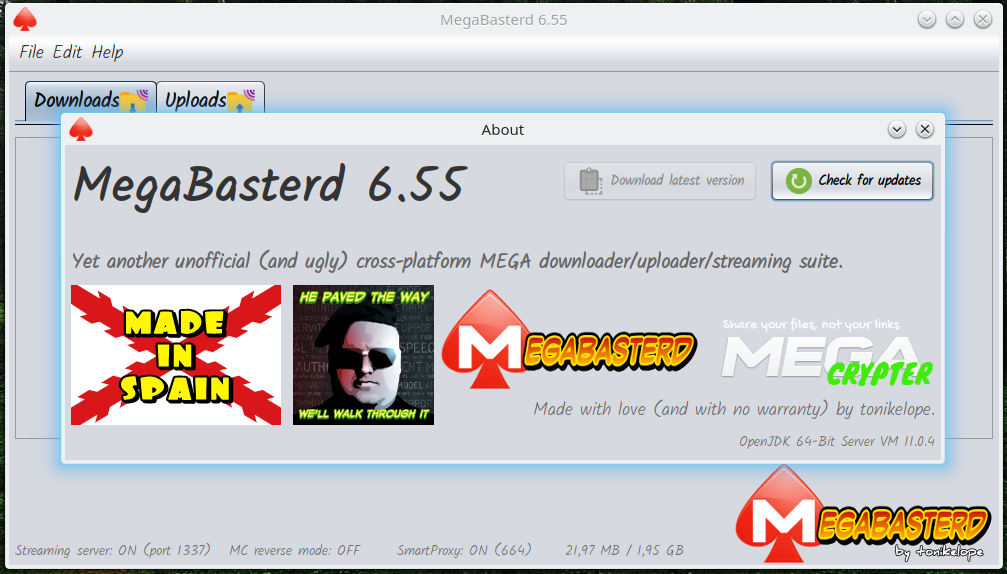
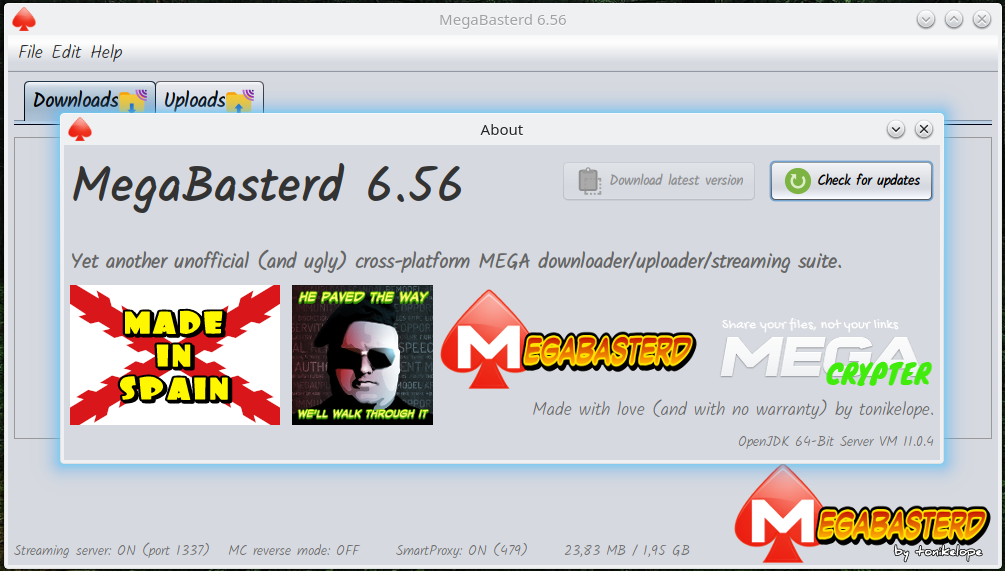
6.56
-BufferedInputStream ChunkWriterManager

(cherry picked from commit 5fd982bc6c3c894a3b6ebbdc4de14d164e9cb49b)

diff --git a/src/main/java/com/tonikelope/megabasterd/ChunkWriterManager.java b/src/main/java/com/tonikelope/megabasterd/ChunkWriterManager.java
@@ -1,6 +1,7 @@
 package com.tonikelope.megabasterd;
 
 import static com.tonikelope.megabasterd.CryptTools.*;
+import java.io.BufferedInputStream;
 import java.io.File;
 import java.io.FileInputStream;
 import java.io.IOException;
@@ -18,9 +19,42 @@ import javax.crypto.NoSuchPaddingException;
  *
  * @author tonikelope
  */
-public class ChunkWriteManager implements Runnable, SecureSingleThreadNotifiable {
+public class ChunkWriterManager implements Runnable, SecureSingleThreadNotifiable {
 
-    private static final Logger LOG = Logger.getLogger(ChunkWriteManager.class.getName());
+    private static final Logger LOG = Logger.getLogger(ChunkWriterManager.class.getName());
+    private volatile long _last_chunk_id_written;
+    private volatile long _bytes_written;
+    private final long _file_size;
+    private final Download _download;
+    private final byte[] _byte_file_key;
+    private final byte[] _byte_iv;
+    private volatile boolean _exit;
+    private final Object _secure_notify_lock;
+    private boolean _notified;
+    private final String _chunks_dir;
+
+    public ChunkWriterManager(Download downloader) throws Exception {
+        _notified = false;
+        _exit = false;
+        _download = downloader;
+        _chunks_dir = _create_chunks_temp_dir();
+        _secure_notify_lock = new Object();
+        _file_size = _download.getFile_size();
+        _byte_file_key = initMEGALinkKey(_download.getFile_key());
+        _byte_iv = initMEGALinkKeyIV(_download.getFile_key());
+
+        if (_download.getProgress() == 0) {
+
+            _last_chunk_id_written = 0;
+
+            _bytes_written = 0;
+
+        } else {
+            _last_chunk_id_written = _download.getLast_chunk_id_dispatched();
+
+            _bytes_written = _download.getProgress();
+        }
+    }
 
     public static long calculateChunkOffset(long chunk_id, int size_multi) {
         long[] offs = {0, 128, 384, 768, 1280, 1920, 2688};
@@ -56,43 +90,6 @@ public class ChunkWriteManager implements Runnable, SecureSingleThreadNotifiable
         }
 
         return chunk_size;
-    }
-
-    private volatile long _last_chunk_id_written;
-    private volatile long _bytes_written;
-    private final long _file_size;
-    private final Download _download;
-    private final byte[] _byte_file_key;
-    private final byte[] _byte_iv;
-    private volatile boolean _exit;
-    private final Object _secure_notify_lock;
-    private boolean _notified;
-    private final String _chunks_dir;
-
-    public ChunkWriteManager(Download downloader) throws Exception {
-        _notified = false;
-        _exit = false;
-        _download = downloader;
-        _chunks_dir = _create_chunks_temp_dir();
-        _secure_notify_lock = new Object();
-        _file_size = _download.getFile_size();
-        _byte_file_key = initMEGALinkKey(_download.getFile_key());
-        _byte_iv = initMEGALinkKeyIV(_download.getFile_key());
-
-        if (_download.getProgress() == 0) {
-
-            _last_chunk_id_written = 0;
-
-            _bytes_written = 0;
-
-        } else {
-            _last_chunk_id_written = _download.getLast_chunk_id_dispatched();
-
-            _bytes_written = _download.getProgress();
-        }
-
-        LOG.log(Level.INFO, "{0} Chunkmanager hello LAST CHUNK WRITTEN -> [{1}] {2}...", new Object[]{Thread.currentThread().getName(), _last_chunk_id_written, _bytes_written});
-
     }
 
     public String getChunks_dir() {
@@ -149,7 +146,7 @@ public class ChunkWriteManager implements Runnable, SecureSingleThreadNotifiable
         try {
             MiscTools.deleteDirectoryRecursion(Paths.get(getChunks_dir()));
         } catch (IOException ex) {
-            Logger.getLogger(ChunkWriteManager.class.getName()).log(Level.SEVERE, ex.getMessage());
+            Logger.getLogger(ChunkWriterManager.class.getName()).log(Level.SEVERE, ex.getMessage());
         }
     }
 
@@ -158,7 +155,9 @@ public class ChunkWriteManager implements Runnable, SecureSingleThreadNotifiable
 
         try {
 
-            LOG.log(Level.INFO, "{0} Chunkmanager: let's do some work!", Thread.currentThread().getName());
+            LOG.log(Level.INFO, "{0} ChunkWriterManager: let's do some work! {1}", new Object[]{Thread.currentThread().getName(), _download.getFile_name()});
+
+            LOG.log(Level.INFO, "{0} ChunkWriterManager LAST CHUNK WRITTEN -> [{1}] {2} {3}...", new Object[]{Thread.currentThread().getName(), _last_chunk_id_written, _bytes_written, _download.getFile_name()});
 
             boolean download_finished = false;
 
@@ -184,7 +183,7 @@ public class ChunkWriteManager implements Runnable, SecureSingleThreadNotifiable
 
                         int reads;
 
-                        try (CipherInputStream cis = new CipherInputStream(new FileInputStream(chunk_file), genDecrypter("AES", "AES/CTR/NoPadding", _byte_file_key, forwardMEGALinkKeyIV(_byte_iv, _bytes_written)))) {
+                        try (CipherInputStream cis = new CipherInputStream(new BufferedInputStream(new FileInputStream(chunk_file)), genDecrypter("AES", "AES/CTR/NoPadding", _byte_file_key, forwardMEGALinkKeyIV(_byte_iv, _bytes_written)))) {
                             while ((reads = cis.read(buffer)) != -1) {
                                 _download.getOutput_stream().write(buffer, 0, reads);
                             }
@@ -194,7 +193,7 @@ public class ChunkWriteManager implements Runnable, SecureSingleThreadNotifiable
 
                         _bytes_written += chunk_file.length();
 
-                        LOG.log(Level.INFO, "{0} Chunkmanager has written to disk chunk [{1}] {2} {3}...", new Object[]{Thread.currentThread().getName(), _last_chunk_id_written + 1, _bytes_written, _download.calculateLastWrittenChunk(_bytes_written)});
+                        LOG.log(Level.INFO, "{0} ChunkWriterManager has written to disk chunk [{1}] {2} {3} {4}...", new Object[]{Thread.currentThread().getName(), _last_chunk_id_written + 1, _bytes_written, _download.calculateLastWrittenChunk(_bytes_written), _download.getFile_name()});
 
                         _last_chunk_id_written++;
 
@@ -205,7 +204,7 @@ public class ChunkWriteManager implements Runnable, SecureSingleThreadNotifiable
 
                     if (!_exit && (!_download.isStopped() || !_download.getChunkworkers().isEmpty()) && _bytes_written < _file_size) {
 
-                        LOG.log(Level.INFO, "{0} Chunkmanager waiting for chunk [{1}]...", new Object[]{Thread.currentThread().getName(), _last_chunk_id_written + 1});
+                        LOG.log(Level.INFO, "{0} ChunkWriterManager waiting for chunk [{1}] {2}...", new Object[]{Thread.currentThread().getName(), _last_chunk_id_written + 1, _download.getFile_name()});
 
                         secureWait();
 
@@ -227,7 +226,7 @@ public class ChunkWriteManager implements Runnable, SecureSingleThreadNotifiable
 
         _download.secureNotify();
 
-        LOG.log(Level.INFO, "{0} Chunkmanager: bye bye{1}", new Object[]{Thread.currentThread().getName(), _download.getFile_name()});
+        LOG.log(Level.INFO, "{0} ChunkWriterManager: bye bye {1}", new Object[]{Thread.currentThread().getName(), _download.getFile_name()});
     }
 
 }

diff --git a/src/main/java/com/tonikelope/megabasterd/ChunkDownloader.java b/src/main/java/com/tonikelope/megabasterd/ChunkDownloader.java
@@ -2,10 +2,12 @@ package com.tonikelope.megabasterd;
 
 import static com.tonikelope.megabasterd.MainPanel.*;
 import static com.tonikelope.megabasterd.MiscTools.*;
+import java.io.BufferedOutputStream;
 import java.io.File;
 import java.io.FileOutputStream;
 import java.io.IOException;
 import java.io.InputStream;
+import java.io.OutputStream;
 import java.net.HttpURLConnection;
 import java.net.InetSocketAddress;
 import java.net.Proxy;
@@ -146,13 +148,13 @@ public class ChunkDownloader implements Runnable, SecureSingleThreadNotifiable {
 
                 long chunk_id = _download.nextChunkId();
 
-                long chunk_offset = ChunkWriteManager.calculateChunkOffset(chunk_id, Download.CHUNK_SIZE_MULTI);
+                long chunk_offset = ChunkWriterManager.calculateChunkOffset(chunk_id, Download.CHUNK_SIZE_MULTI);
 
-                long chunk_size = ChunkWriteManager.calculateChunkSize(chunk_id, _download.getFile_size(), chunk_offset, Download.CHUNK_SIZE_MULTI);
+                long chunk_size = ChunkWriterManager.calculateChunkSize(chunk_id, _download.getFile_size(), chunk_offset, Download.CHUNK_SIZE_MULTI);
 
-                ChunkWriteManager.checkChunkID(chunk_id, _download.getFile_size(), chunk_offset);
+                ChunkWriterManager.checkChunkID(chunk_id, _download.getFile_size(), chunk_offset);
 
-                String chunk_url = ChunkWriteManager.genChunkUrl(worker_url, _download.getFile_size(), chunk_offset, chunk_size);
+                String chunk_url = ChunkWriterManager.genChunkUrl(worker_url, _download.getFile_size(), chunk_offset, chunk_size);
 
                 if ((_current_smart_proxy != null || http_error == 509) && MainPanel.isUse_smart_proxy() && !MainPanel.isUse_proxy()) {
 
@@ -260,7 +262,7 @@ public class ChunkDownloader implements Runnable, SecureSingleThreadNotifiable {
 
                                 tmp_chunk_file = new File(_download.getChunkmanager().getChunks_dir() + "/" + new File(_download.getFile_name()).getName() + ".chunk" + chunk_id + ".tmp");
 
-                                try (InputStream is = new ThrottledInputStream(con.getInputStream(), _download.getMain_panel().getStream_supervisor()); FileOutputStream tmp_chunk_file_os = new FileOutputStream(tmp_chunk_file)) {
+                                try (InputStream is = new ThrottledInputStream(con.getInputStream(), _download.getMain_panel().getStream_supervisor()); OutputStream tmp_chunk_file_os = new BufferedOutputStream(new FileOutputStream(tmp_chunk_file))) {
 
                                     init_chunk_time = System.currentTimeMillis();
 

diff --git a/src/main/java/com/tonikelope/megabasterd/Download.java b/src/main/java/com/tonikelope/megabasterd/Download.java
@@ -80,7 +80,7 @@ public class Download implements Transference, Runnable, SecureSingleThreadNotif
     private volatile boolean _pause;
     private final ConcurrentLinkedQueue<Long> _partialProgressQueue;
     private volatile long _progress;
-    private ChunkWriteManager _chunkmanager;
+    private ChunkWriterManager _chunkmanager;
     private String _last_download_url;
     private boolean _provision_ok;
     private boolean _finishing_download;
@@ -292,7 +292,7 @@ public class Download implements Transference, Runnable, SecureSingleThreadNotif
         _pause = pause;
     }
 
-    public ChunkWriteManager getChunkmanager() {
+    public ChunkWriterManager getChunkmanager() {
         return _chunkmanager;
     }
 
@@ -590,7 +590,7 @@ public class Download implements Transference, Runnable, SecureSingleThreadNotif
 
                             if (_use_slots) {
 
-                                _chunkmanager = new ChunkWriteManager(this);
+                                _chunkmanager = new ChunkWriterManager(this);
 
                                 _thread_pool.execute(_chunkmanager);
 
@@ -1322,11 +1322,11 @@ public class Download implements Transference, Runnable, SecureSingleThreadNotif
             try {
                 while (!_exit) {
 
-                    long chunk_offset = ChunkWriteManager.calculateChunkOffset(chunk_id, 1);
+                    long chunk_offset = ChunkWriterManager.calculateChunkOffset(chunk_id, 1);
 
-                    long chunk_size = ChunkWriteManager.calculateChunkSize(chunk_id, this.getFile_size(), chunk_offset, 1);
+                    long chunk_size = ChunkWriterManager.calculateChunkSize(chunk_id, this.getFile_size(), chunk_offset, 1);
 
-                    ChunkWriteManager.checkChunkID(chunk_id, this.getFile_size(), chunk_offset);
+                    ChunkWriterManager.checkChunkID(chunk_id, this.getFile_size(), chunk_offset);
 
                     tot += chunk_size;
 

diff --git a/src/main/java/com/tonikelope/megabasterd/SettingsDialog.java b/src/main/java/com/tonikelope/megabasterd/SettingsDialog.java
@@ -5,11 +5,14 @@ import static com.tonikelope.megabasterd.MainPanel.*;
 import static com.tonikelope.megabasterd.MiscTools.*;
 import java.awt.Dialog;
 import java.awt.Frame;
+import java.io.BufferedInputStream;
+import java.io.BufferedOutputStream;
 import java.io.ByteArrayOutputStream;
 import java.io.File;
 import java.io.FileInputStream;
 import java.io.FileOutputStream;
 import java.io.IOException;
+import java.io.InputStream;
 import java.io.ObjectInputStream;
 import java.io.ObjectOutputStream;
 import java.nio.file.Paths;
@@ -2118,7 +2121,7 @@ public class SettingsDialog extends javax.swing.JDialog {
 
                 try {
 
-                    try (FileInputStream fis = new FileInputStream(file); ObjectInputStream ois = new ObjectInputStream(fis)) {
+                    try (InputStream fis = new BufferedInputStream(new FileInputStream(file)); ObjectInputStream ois = new ObjectInputStream(fis)) {
 
                         HashMap<String, Object> settings = (HashMap<String, Object>) ois.readObject();
 
@@ -2178,7 +2181,7 @@ public class SettingsDialog extends javax.swing.JDialog {
 
                     file.createNewFile();
 
-                    try (FileOutputStream fos = new FileOutputStream(file); ObjectOutputStream oos = new ObjectOutputStream(fos)) {
+                    try (BufferedOutputStream fos = new BufferedOutputStream(new FileOutputStream(file)); ObjectOutputStream oos = new ObjectOutputStream(fos)) {
 
                         HashMap<String, Object> settings = new HashMap<>();
 

diff --git a/src/main/java/com/tonikelope/megabasterd/ChunkUploader.java b/src/main/java/com/tonikelope/megabasterd/ChunkUploader.java
@@ -125,13 +125,13 @@ public class ChunkUploader implements Runnable, SecureSingleThreadNotifiable {
 
                 chunk_id = _upload.nextChunkId();
 
-                long chunk_offset = ChunkWriteManager.calculateChunkOffset(chunk_id, Upload.CHUNK_SIZE_MULTI);
+                long chunk_offset = ChunkWriterManager.calculateChunkOffset(chunk_id, Upload.CHUNK_SIZE_MULTI);
 
-                long chunk_size = ChunkWriteManager.calculateChunkSize(chunk_id, _upload.getFile_size(), chunk_offset, Upload.CHUNK_SIZE_MULTI);
+                long chunk_size = ChunkWriterManager.calculateChunkSize(chunk_id, _upload.getFile_size(), chunk_offset, Upload.CHUNK_SIZE_MULTI);
 
-                ChunkWriteManager.checkChunkID(chunk_id, _upload.getFile_size(), chunk_offset);
+                ChunkWriterManager.checkChunkID(chunk_id, _upload.getFile_size(), chunk_offset);
 
-                String chunk_url = ChunkWriteManager.genChunkUrl(worker_url, _upload.getFile_size(), chunk_offset, chunk_size);
+                String chunk_url = ChunkWriterManager.genChunkUrl(worker_url, _upload.getFile_size(), chunk_offset, chunk_size);
 
                 URL url = new URL(chunk_url);
 

diff --git a/src/main/java/com/tonikelope/megabasterd/LinkGrabberDialog.java b/src/main/java/com/tonikelope/megabasterd/LinkGrabberDialog.java
@@ -2,11 +2,13 @@ package com.tonikelope.megabasterd;
 
 import static com.tonikelope.megabasterd.MainPanel.*;
 import static com.tonikelope.megabasterd.MiscTools.*;
+import java.io.BufferedInputStream;
 import java.io.ByteArrayOutputStream;
 import java.io.File;
 import java.io.FileInputStream;
 import java.io.FileNotFoundException;
 import java.io.IOException;
+import java.io.InputStream;
 import java.nio.file.Paths;
 import java.util.Iterator;
 import java.util.Set;
@@ -314,7 +316,7 @@ public class LinkGrabberDialog extends javax.swing.JDialog implements ClipboardC
                 @Override
                 public void run() {
 
-                    try (FileInputStream is = new FileInputStream(file); ByteArrayOutputStream out = new ByteArrayOutputStream()) {
+                    try (InputStream is = new BufferedInputStream(new FileInputStream(file)); ByteArrayOutputStream out = new ByteArrayOutputStream()) {
 
                         byte[] buffer = new byte[MainPanel.DEFAULT_BYTE_BUFFER_SIZE];
 

diff --git a/src/main/java/com/tonikelope/megabasterd/UploadMACGenerator.java b/src/main/java/com/tonikelope/megabasterd/UploadMACGenerator.java
@@ -127,11 +127,11 @@ public class UploadMACGenerator implements Runnable, SecureSingleThreadNotifiabl
 
                         int reads;
 
-                        long chunk_offset = ChunkWriteManager.calculateChunkOffset(chunk_id, 1);
+                        long chunk_offset = ChunkWriterManager.calculateChunkOffset(chunk_id, 1);
 
-                        long chunk_size = ChunkWriteManager.calculateChunkSize(chunk_id, _upload.getFile_size(), chunk_offset, 1);
+                        long chunk_size = ChunkWriterManager.calculateChunkSize(chunk_id, _upload.getFile_size(), chunk_offset, 1);
 
-                        ChunkWriteManager.checkChunkID(chunk_id, _upload.getFile_size(), chunk_offset);
+                        ChunkWriterManager.checkChunkID(chunk_id, _upload.getFile_size(), chunk_offset);
 
                         try {
 

diff --git a/src/main/java/com/tonikelope/megabasterd/ChunkDownloaderMono.java b/src/main/java/com/tonikelope/megabasterd/ChunkDownloaderMono.java
@@ -54,11 +54,11 @@ public class ChunkDownloaderMono extends ChunkDownloader {
 
                 chunk_id = getDownload().nextChunkId();
 
-                long chunk_offset = ChunkWriteManager.calculateChunkOffset(chunk_id, 1);
+                long chunk_offset = ChunkWriterManager.calculateChunkOffset(chunk_id, 1);
 
-                long chunk_size = ChunkWriteManager.calculateChunkSize(chunk_id, getDownload().getFile_size(), chunk_offset, 1);
+                long chunk_size = ChunkWriterManager.calculateChunkSize(chunk_id, getDownload().getFile_size(), chunk_offset, 1);
 
-                ChunkWriteManager.checkChunkID(chunk_id, getDownload().getFile_size(), chunk_offset);
+                ChunkWriterManager.checkChunkID(chunk_id, getDownload().getFile_size(), chunk_offset);
 
                 long chunk_reads = 0;
 

diff --git a/src/main/java/com/tonikelope/megabasterd/MainPanel.java b/src/main/java/com/tonikelope/megabasterd/MainPanel.java
@@ -53,7 +53,7 @@ import javax.swing.UIManager;
  */
 public class MainPanel {
 
-    public static final String VERSION = "6.55";
+    public static final String VERSION = "6.56";
     public static final int THROTTLE_SLICE_SIZE = 16 * 1024;
     public static final int DEFAULT_BYTE_BUFFER_SIZE = 16 * 1024;
     public static final int STREAMER_PORT = 1337;
